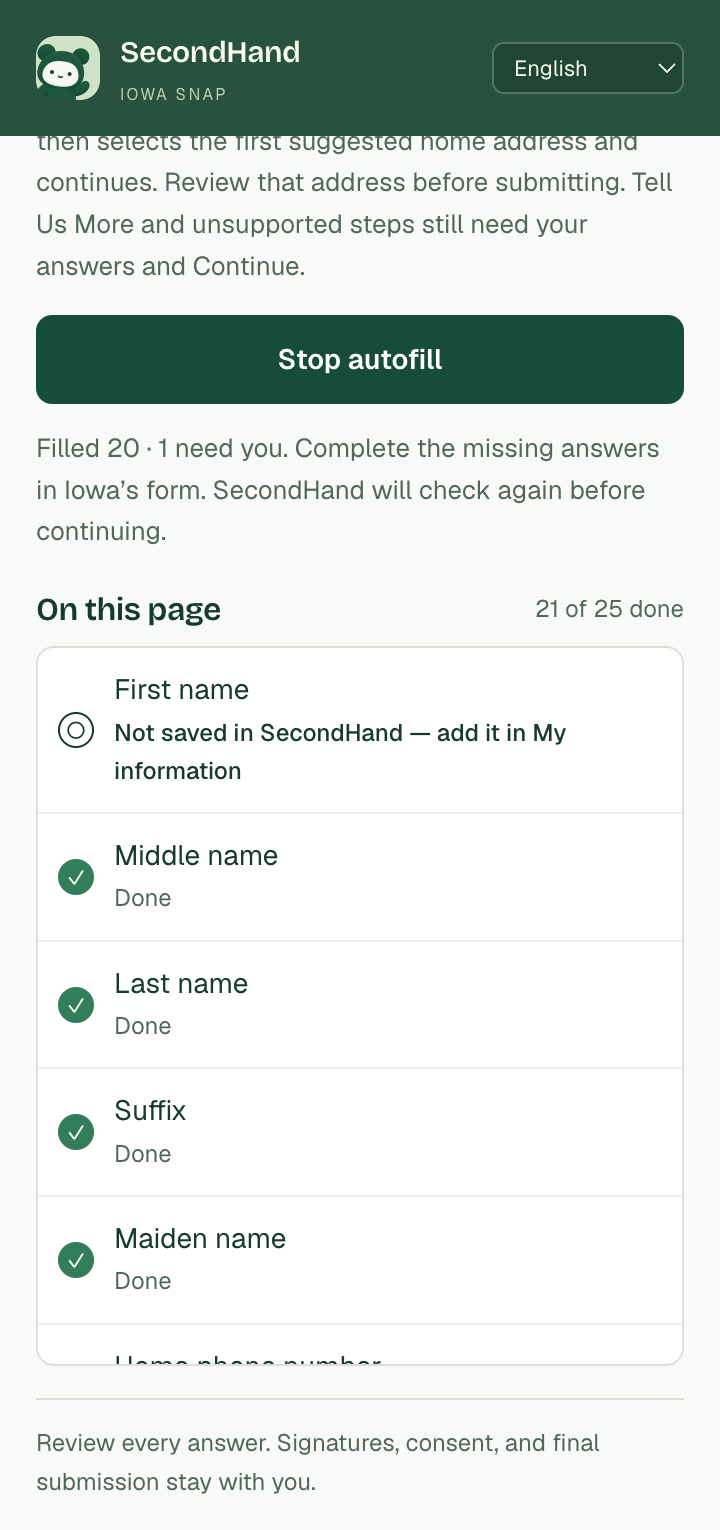
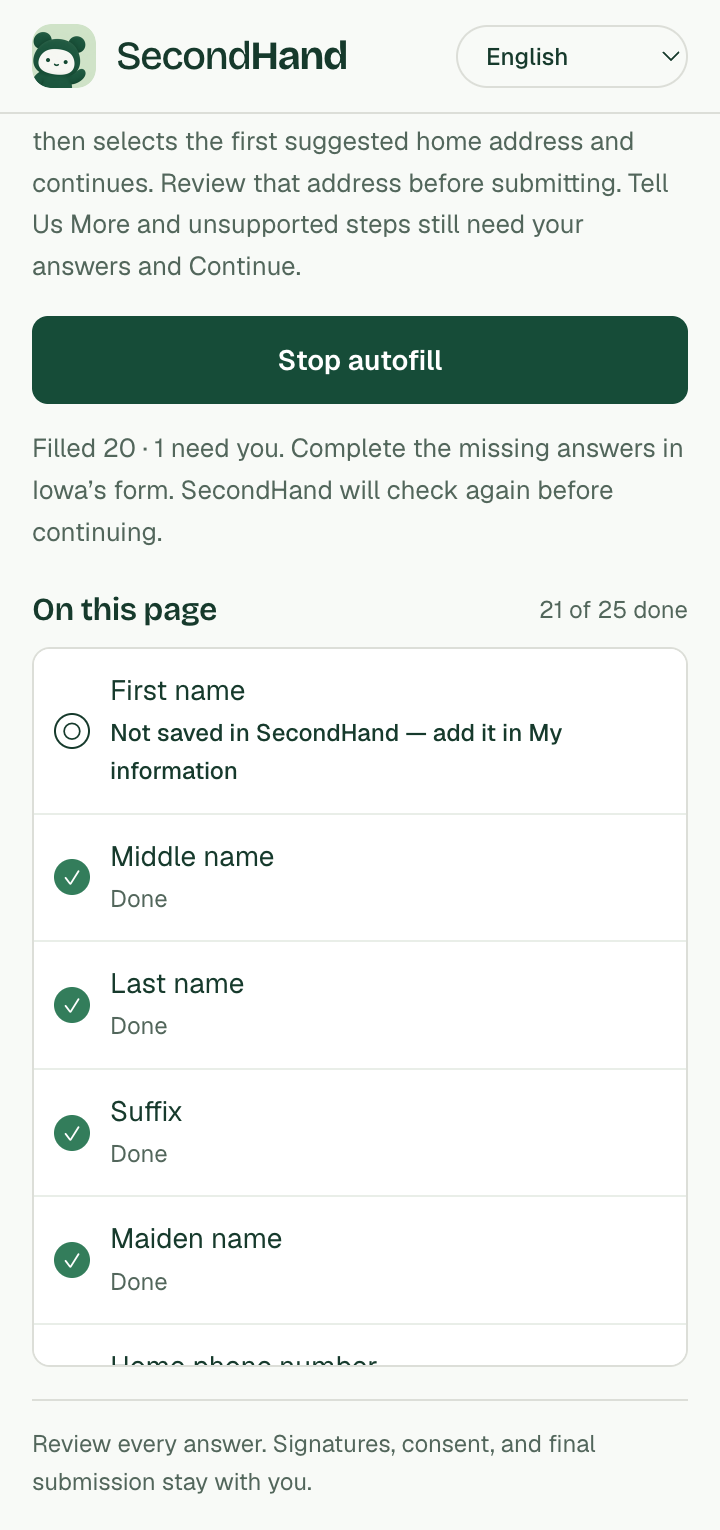
style: give the side panel the website's header
The dark bar and its small IOWA SNAP label, which was wrong on other websites, give way to the website's own header: the logo, the wordmark in its two weights, and the language picker as an outlined pill, on the page's background above a hairline. Screen readers still hear the one name, SecondHand. The header now scrolls with the panel when the panel is short, as it is zoomed in, so it no longer takes a third of the view at 200%; the capture and QA scripts scroll the panel accordingly.

diff --git a/extension/panel.css b/extension/panel.css
@@ -4,7 +4,7 @@
 @font-face{font-family:Geist;font-weight:600;font-display:block;src:url(geist-latin-600-normal.woff2) format("woff2");unicode-range:U+0000-00FF,U+0131,U+0152-0153,U+02BB-02BC,U+02C6,U+02DA,U+02DC,U+0304,U+0308,U+0329,U+2000-206F,U+20AC,U+2122,U+2191,U+2193,U+2212,U+2215,U+FEFF,U+FFFD}@font-face{font-family:Geist;font-weight:600;font-display:block;src:url(geist-vietnamese-600-normal.woff2) format("woff2");unicode-range:U+0102-0103,U+0110-0111,U+0128-0129,U+0168-0169,U+01A0-01A1,U+01AF-01B0,U+0300-0301,U+0303-0304,U+0308-0309,U+0323,U+0329,U+1EA0-1EF9,U+20AB}
 @font-face{font-family:"Bricolage Grotesque Variable";font-weight:200 800;font-display:block;src:url(bricolage-grotesque-latin-wght-normal.woff2) format("woff2-variations");unicode-range:U+0000-00FF,U+0131,U+0152-0153,U+02BB-02BC,U+02C6,U+02DA,U+02DC,U+0304,U+0308,U+0329,U+2000-206F,U+20AC,U+2122,U+2191,U+2193,U+2212,U+2215,U+FEFF,U+FFFD}@font-face{font-family:"Bricolage Grotesque Variable";font-weight:200 800;font-display:block;src:url(bricolage-grotesque-vietnamese-wght-normal.woff2) format("woff2-variations");unicode-range:U+0102-0103,U+0110-0111,U+0128-0129,U+0168-0169,U+01A0-01A1,U+01AF-01B0,U+0300-0301,U+0303-0304,U+0308-0309,U+0323,U+0329,U+1EA0-1EF9,U+20AB}
 /* The website's colors (website/app/globals.css), and the app's red for a problem. */
-:root{--background:#f8faf7;--foreground:#163a2c;--primary:#164c38;--pressed:#0c3323;--muted:#e9eee8;--muted-foreground:#52665b;--border:#dcded8;--ring:#337d5b;--danger:#a23c38;--text:Geist,system-ui,-apple-system,"Segoe UI",sans-serif;--display:"Bricolage Grotesque Variable",var(--text);color:var(--foreground);background:var(--background);color-scheme:light;font-size:12px;font-synthesis:none}*{box-sizing:border-box}html,body{margin:0;width:100%;height:100%;overflow:hidden}body{display:flex;flex-direction:column;background:var(--background);font-family:var(--text)}button{font:inherit;cursor:pointer;-webkit-tap-highlight-color:transparent}button:disabled{cursor:default;opacity:.48}button:focus-visible{outline:3px solid #d5b668;outline-offset:2px}p,h1,h2{margin:0}[hidden]{display:none!important}
+:root{--background:#f8faf7;--foreground:#163a2c;--primary:#164c38;--pressed:#0c3323;--muted:#e9eee8;--muted-foreground:#52665b;--border:#dcded8;--ring:#337d5b;--danger:#a23c38;--text:Geist,system-ui,-apple-system,"Segoe UI",sans-serif;--display:"Bricolage Grotesque Variable",var(--text);color:var(--foreground);background:var(--background);color-scheme:light;font-size:12px;font-synthesis:none}*{box-sizing:border-box}html,body{margin:0;width:100%;height:100%;overflow:hidden}body{display:flex;flex-direction:column;background:var(--background);font-family:var(--text)}button,select{font:inherit;color:inherit;cursor:pointer;-webkit-tap-highlight-color:transparent}button:disabled{cursor:default;opacity:.48}button:focus-visible{outline:3px solid #d5b668;outline-offset:2px}p,h1,h2{margin:0}[hidden]{display:none!important}
 .brand{width:32px;height:32px;border-radius:30%;display:block;flex-shrink:0}
 /* On-page widget: an extension iframe the page cannot script. */
 body.launcher-surface{background:transparent}#launcher{width:100%;height:100%;display:flex;align-items:center;justify-content:center}#widget{width:max-content;max-width:272px;margin-inline-start:auto}#widget.outdated{width:100%}
@@ -17,9 +17,13 @@ body.launcher-surface{background:transparent}#launcher{width:100%;height:100%;di
 .widget.outdated .widget-row{display:none}.widget.outdated{padding:4px 8px}.widget.outdated #widget-text{-webkit-line-clamp:3}
 .pill{width:46px;height:46px;flex:none;padding:0;border:1px solid #cddcc1;border-radius:50%;background:#28543f;display:flex;align-items:center;justify-content:center}.pill .brand{width:30px;height:30px}
 /* Chrome's native side panel. */
-#sidepanel{height:100%;display:flex;flex-direction:column;overflow:hidden;font-size:13px;line-height:1.6;-webkit-font-smoothing:antialiased}#sidepanel :focus-visible{outline:3px solid var(--ring);outline-offset:2px}
-.panel-header{flex-shrink:0;display:flex;align-items:center;gap:10px;padding:14px 18px;background:#28523e;color:#f7f9ed;min-height:62px}.header-copy strong{display:block;font-family:var(--display);font-size:15px;font-weight:600;letter-spacing:-.25px}.header-copy>span{display:block;font-size:8px;letter-spacing:1.2px;color:#bbceb0;margin-top:3px}
-main{flex:1;overflow:auto;padding:16px 18px 0;scrollbar-width:thin;scrollbar-color:var(--border) transparent}
+#sidepanel{height:100%;overflow:auto;scrollbar-width:thin;scrollbar-color:var(--border) transparent;font-size:13px;line-height:1.6;-webkit-font-smoothing:antialiased}#sidepanel :focus-visible{outline:3px solid var(--ring);outline-offset:2px}
+/* The header stays in view, unless the panel is short, as it is zoomed in: then it scrolls away with the rest. */
+.panel-header{position:sticky;top:0;z-index:1;display:flex;flex-wrap:wrap;align-items:center;gap:8px 10px;padding:12px 16px;background:var(--background);border-bottom:1px solid var(--border)}@media(max-height:480px){.panel-header{position:static}}
+/* The wordmark as the website sets it, in two weights. It reads left to right in every language. */
+.wordmark{direction:ltr;font-family:var(--display);font-size:clamp(16px,5.6vw,20px);font-weight:500;letter-spacing:-.04em;line-height:1;white-space:nowrap}.wordmark span span{font-weight:700}
+.language-picker{margin-inline-start:auto;max-width:132px;padding:6px 10px;border:1px solid var(--border);border-radius:100px;background:var(--background);font-size:12px;font-weight:500}
+main{padding:16px 16px 0}
 .desktop-row{display:flex;justify-content:space-between;align-items:center;gap:8px;padding:9px 11px;background:var(--muted);border:1px solid var(--border);border-radius:7px}.desktop-row>span{color:var(--muted-foreground);line-height:1.5}.desktop-row.error{background:#fff}.desktop-row.error>span{color:var(--foreground)}
 .text-button{font-size:13px;font-weight:600;background:none;border:0;padding:4px 0;color:var(--foreground);white-space:nowrap}.text-button:hover{text-decoration:underline}.site-off{margin-top:6px}
 .button{border:1px solid transparent;border-radius:8px;min-height:44px;padding:10px 12px;font-size:14px;font-weight:600;margin-top:14px}.primary{background:var(--primary);color:#fff}.primary:hover:enabled{background:var(--pressed)}.full{width:100%}
@@ -31,8 +35,7 @@ main{flex:1;overflow:auto;padding:16px 18px 0;scrollbar-width:thin;scrollbar-col
 .checklist-copy{flex:1;min-width:0}.checklist-label{display:block;font-size:14px;line-height:1.4}.checklist-detail{display:block;font-size:12px;color:var(--muted-foreground);margin-top:2px}.checklist-item.missing .checklist-detail,.checklist-item.manual .checklist-detail{color:var(--foreground);font-weight:500}.checklist-item.optional .checklist-label{color:var(--muted-foreground)}
 footer{border-top:1px solid var(--border);padding:12px 0 14px}footer p{font-size:12px;color:var(--muted-foreground)}
 @media(prefers-reduced-motion:reduce){*{scroll-behavior:auto!important}}
-/* The applicant's language and the page's questions in it. */
-.language-picker{margin-inline-start:auto;max-width:96px;font:inherit;font-size:11px;color:#f7f9ed;background:#1f4533;border:1px solid #4d7760;border-radius:6px;padding:4px 6px;cursor:pointer}
+/* The page's questions in the applicant's language. */
 #need-you{color:#f2d58d;font-weight:600}#translate-offer{color:#f2d58d;align-self:flex-start}.visually-hidden{position:absolute!important;width:1px;height:1px;overflow:hidden;clip-path:inset(50%);white-space:nowrap}
 .secondary{background:#fff;color:var(--foreground);border-color:var(--border)}.secondary:hover:enabled{background:var(--muted)}
 .questions-pending{margin:0 0 8px}

diff --git a/extension/strings.js b/extension/strings.js
@@ -11,7 +11,6 @@
   const en = Object.freeze({
     'app.title': 'SecondHand · Iowa SNAP assistant',
     'brand.name': 'SecondHand',
-    'brand.region': 'IOWA SNAP',
     'language.label': 'Language',
     'language.en': 'English',
     'language.es': 'Español',
@@ -339,7 +338,6 @@
   const es = Object.freeze({
     'app.title': 'SecondHand · Asistente de SNAP de Iowa',
     'brand.name': 'SecondHand',
-    'brand.region': 'IOWA SNAP',
     'language.label': 'Idioma',
     'language.en': 'English',
     'language.es': 'Español',
@@ -663,7 +661,6 @@
   const vi = Object.freeze({
     'app.title': 'SecondHand · Trợ lý SNAP Iowa',
     'brand.name': 'SecondHand',
-    'brand.region': 'IOWA SNAP',
     'language.label': 'Ngôn ngữ',
     'language.en': 'English',
     'language.es': 'Español',
@@ -988,7 +985,6 @@
   const zh = Object.freeze({
     'app.title': 'SecondHand · 爱荷华州 SNAP 助手',
     'brand.name': 'SecondHand',
-    'brand.region': 'IOWA SNAP',
     'language.label': '语言',
     'language.en': 'English',
     'language.es': 'Español',
@@ -1313,7 +1309,6 @@
   const fr = Object.freeze({
     'app.title': 'SecondHand · Assistant SNAP de l’Iowa',
     'brand.name': 'SecondHand',
-    'brand.region': 'IOWA SNAP',
     'language.label': 'Langue',
     'language.en': 'English',
     'language.es': 'Español',
@@ -1638,7 +1633,6 @@
   const ar = Object.freeze({
     'app.title': 'SecondHand · مساعد SNAP في ولاية أيوا',
     'brand.name': 'SecondHand',
-    'brand.region': 'IOWA SNAP',
     'language.label': 'اللغة',
     'language.en': 'English',
     'language.es': 'Español',

diff --git a/extension/panel.html b/extension/panel.html
@@ -33,7 +33,7 @@
   <div id="sidepanel" hidden>
     <header class="panel-header">
       <img class="brand" src="icon-128.png" alt="">
-      <div class="header-copy"><strong data-i18n="brand.name"></strong><span data-i18n="brand.region"></span></div>
+      <strong class="wordmark"><span class="visually-hidden" data-i18n="brand.name"></span><span aria-hidden="true">Second<span>Hand</span></span></strong>
       <select id="language" class="language-picker" data-i18n-aria-label="language.label">
         <option value="en" data-i18n="language.en"></option>
         <option value="es" data-i18n="language.es"></option>
